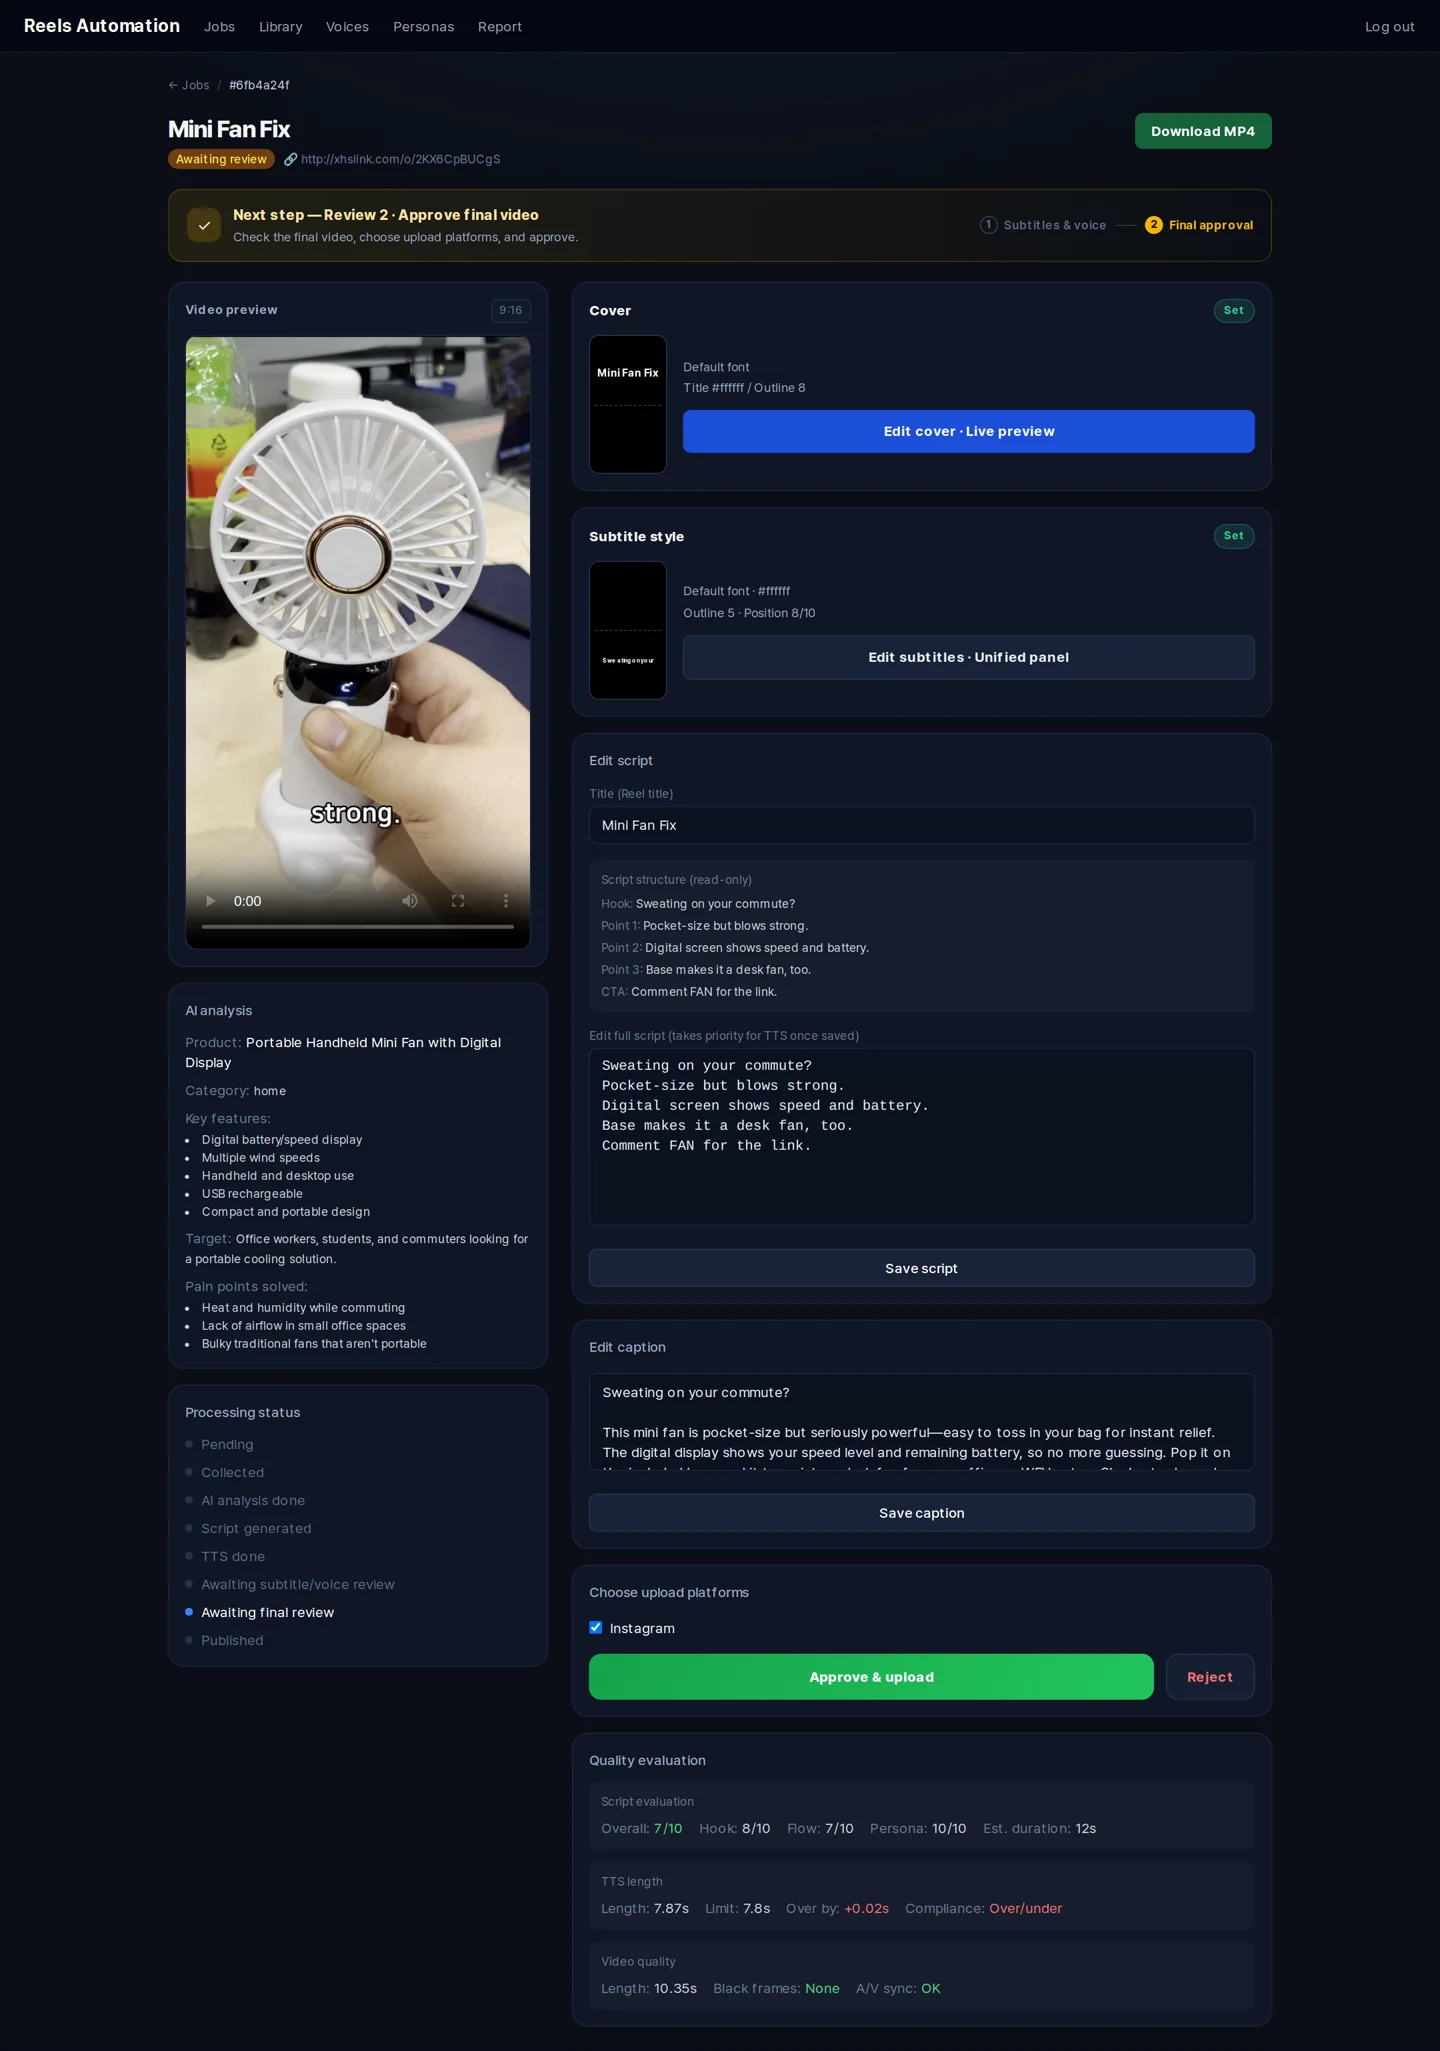
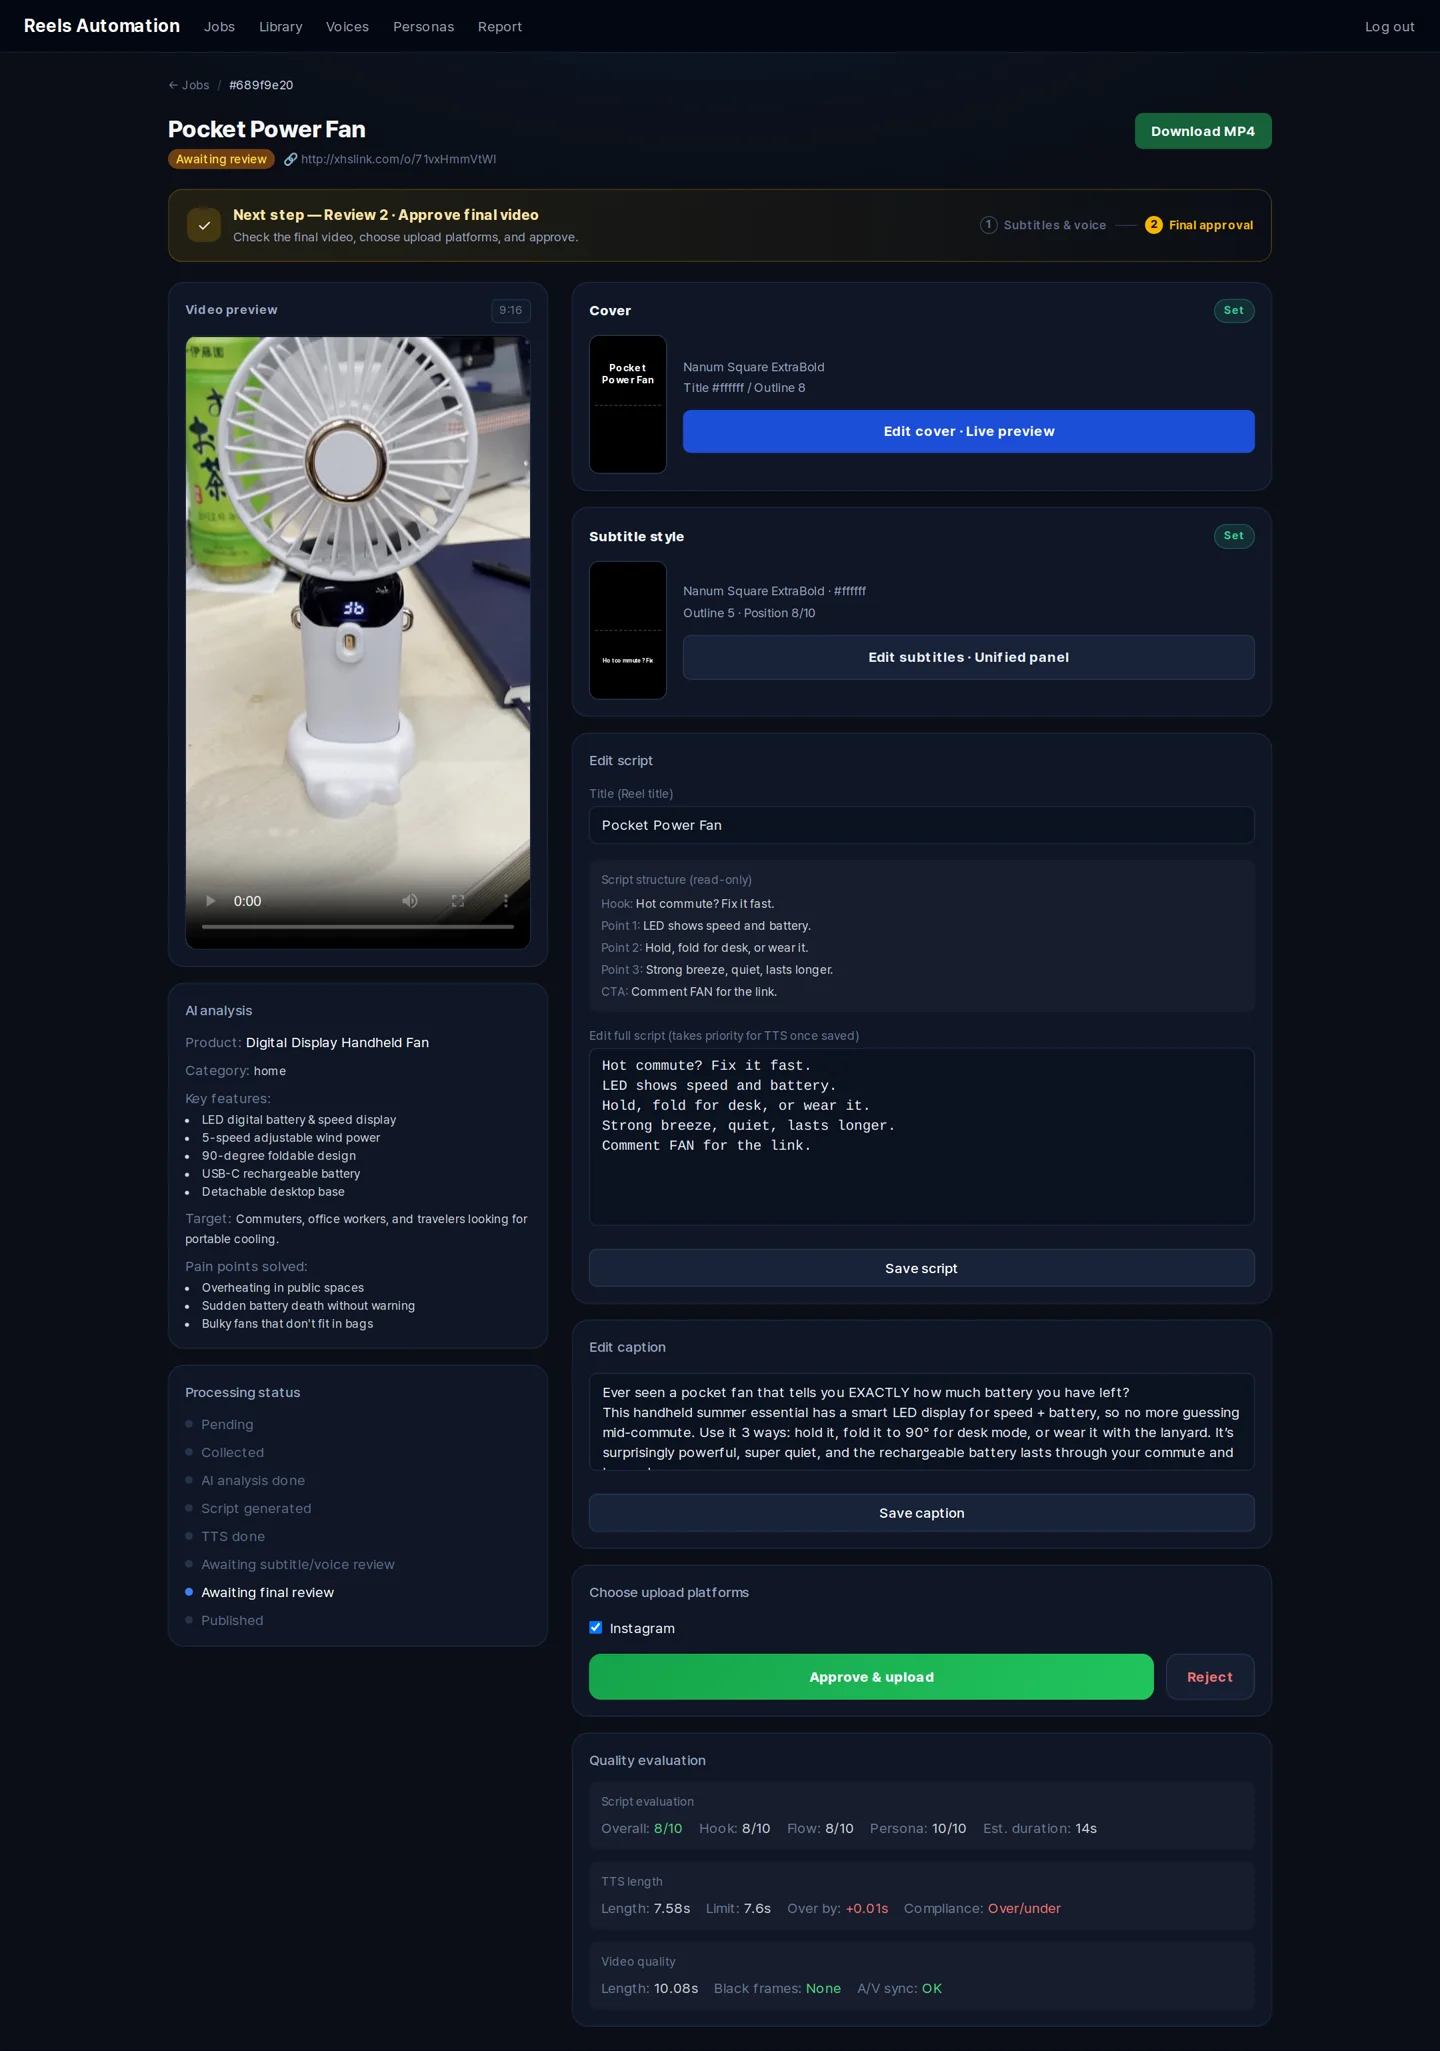
Update demo to a new clip

diff --git a/README.ja.md b/README.ja.md
@@ -33,8 +33,8 @@ Upload footage ─▶ Gemini video analysis ─▶ GPT script ─▶ ElevenLabs 
 
 Gemini が動画を分析し、GPT が書いた台本です（出力言語：英語）。
 
-> **Hook:** Sweating on your commute?
-> **Points:** Pocket-size but blows strong. · Digital screen shows speed and battery. · Base makes it a desk fan, too.
+> **Hook:** Hot commute? Fix it fast.
+> **Points:** LED shows speed and battery. · Hold, fold for desk, or wear it. · Strong breeze, quiet, lasts longer.
 > **CTA:** Comment FAN for the link.
 
 <details>

diff --git a/README.ko.md b/README.ko.md
@@ -33,8 +33,8 @@ Upload footage ─▶ Gemini video analysis ─▶ GPT script ─▶ ElevenLabs 
 
 Gemini가 영상을 분석하고 GPT가 쓴 대본입니다(출력 언어: 영어).
 
-> **Hook:** Sweating on your commute?
-> **Points:** Pocket-size but blows strong. · Digital screen shows speed and battery. · Base makes it a desk fan, too.
+> **Hook:** Hot commute? Fix it fast.
+> **Points:** LED shows speed and battery. · Hold, fold for desk, or wear it. · Strong breeze, quiet, lasts longer.
 > **CTA:** Comment FAN for the link.
 
 <details>

diff --git a/README.zh-CN.md b/README.zh-CN.md
@@ -31,8 +31,8 @@ Upload footage ─▶ Gemini video analysis ─▶ GPT script ─▶ ElevenLabs 
 
 由 Gemini 分析视频、GPT 撰写的脚本（输出语言：英语）：
 
-> **Hook:** Sweating on your commute?
-> **Points:** Pocket-size but blows strong. · Digital screen shows speed and battery. · Base makes it a desk fan, too.
+> **Hook:** Hot commute? Fix it fast.
+> **Points:** LED shows speed and battery. · Hold, fold for desk, or wear it. · Strong breeze, quiet, lasts longer.
 > **CTA:** Comment FAN for the link.
 
 <details>

diff --git a/README.md b/README.md
@@ -34,8 +34,8 @@ cover style adjusted.
 
 Script written by GPT from Gemini's analysis of the video:
 
-> **Hook:** Sweating on your commute?
-> **Points:** Pocket-size but blows strong. · Digital screen shows speed and battery. · Base makes it a desk fan, too.
+> **Hook:** Hot commute? Fix it fast.
+> **Points:** LED shows speed and battery. · Hold, fold for desk, or wear it. · Strong breeze, quiet, lasts longer.
 > **CTA:** Comment FAN for the link.
 
 <details>
